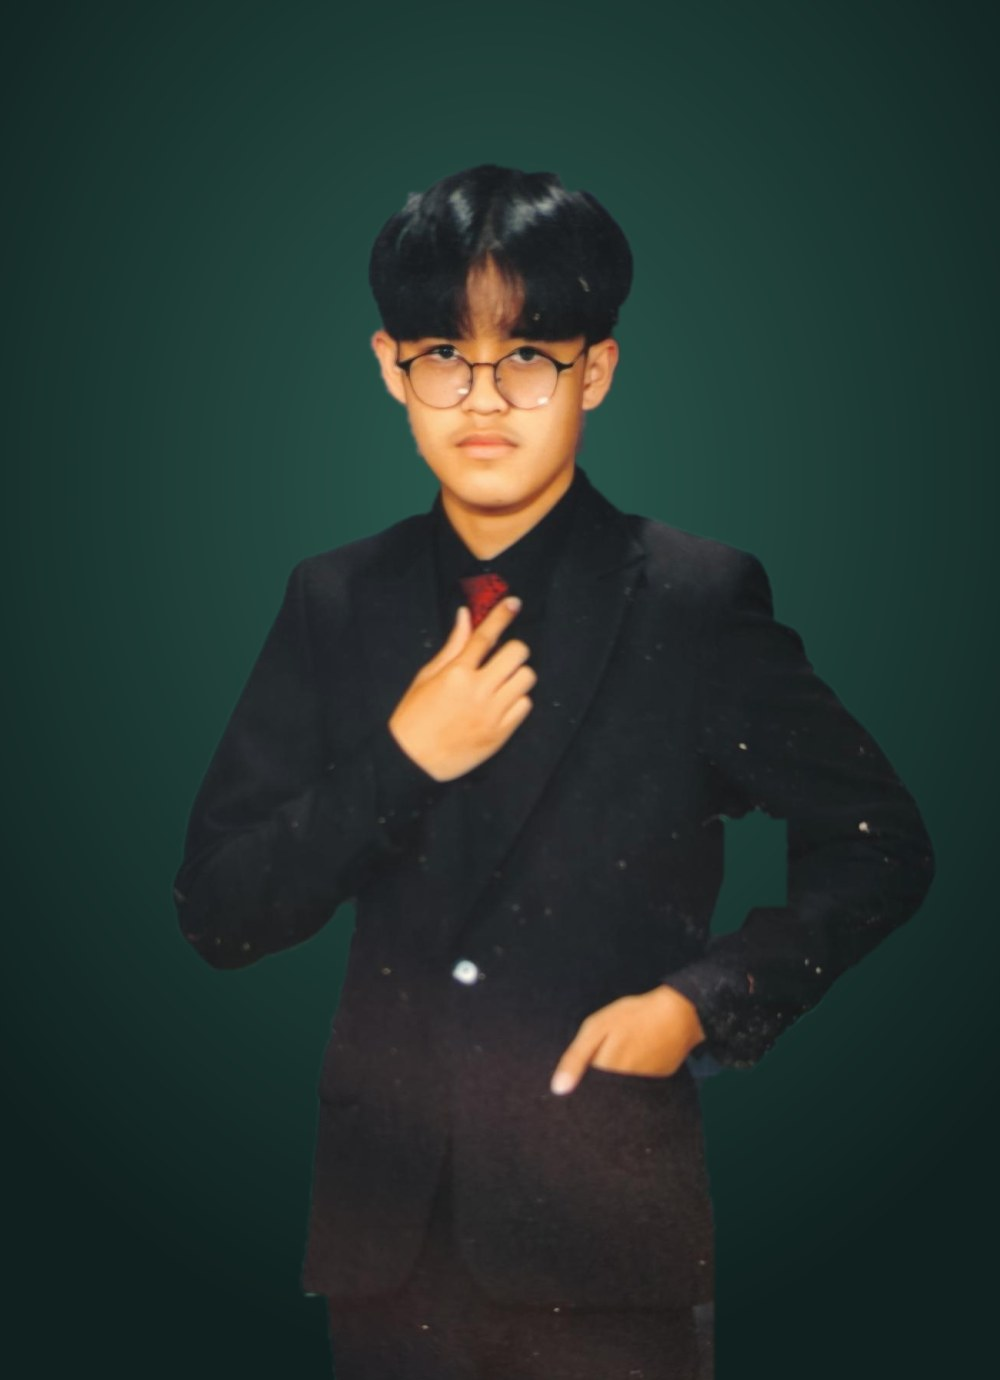
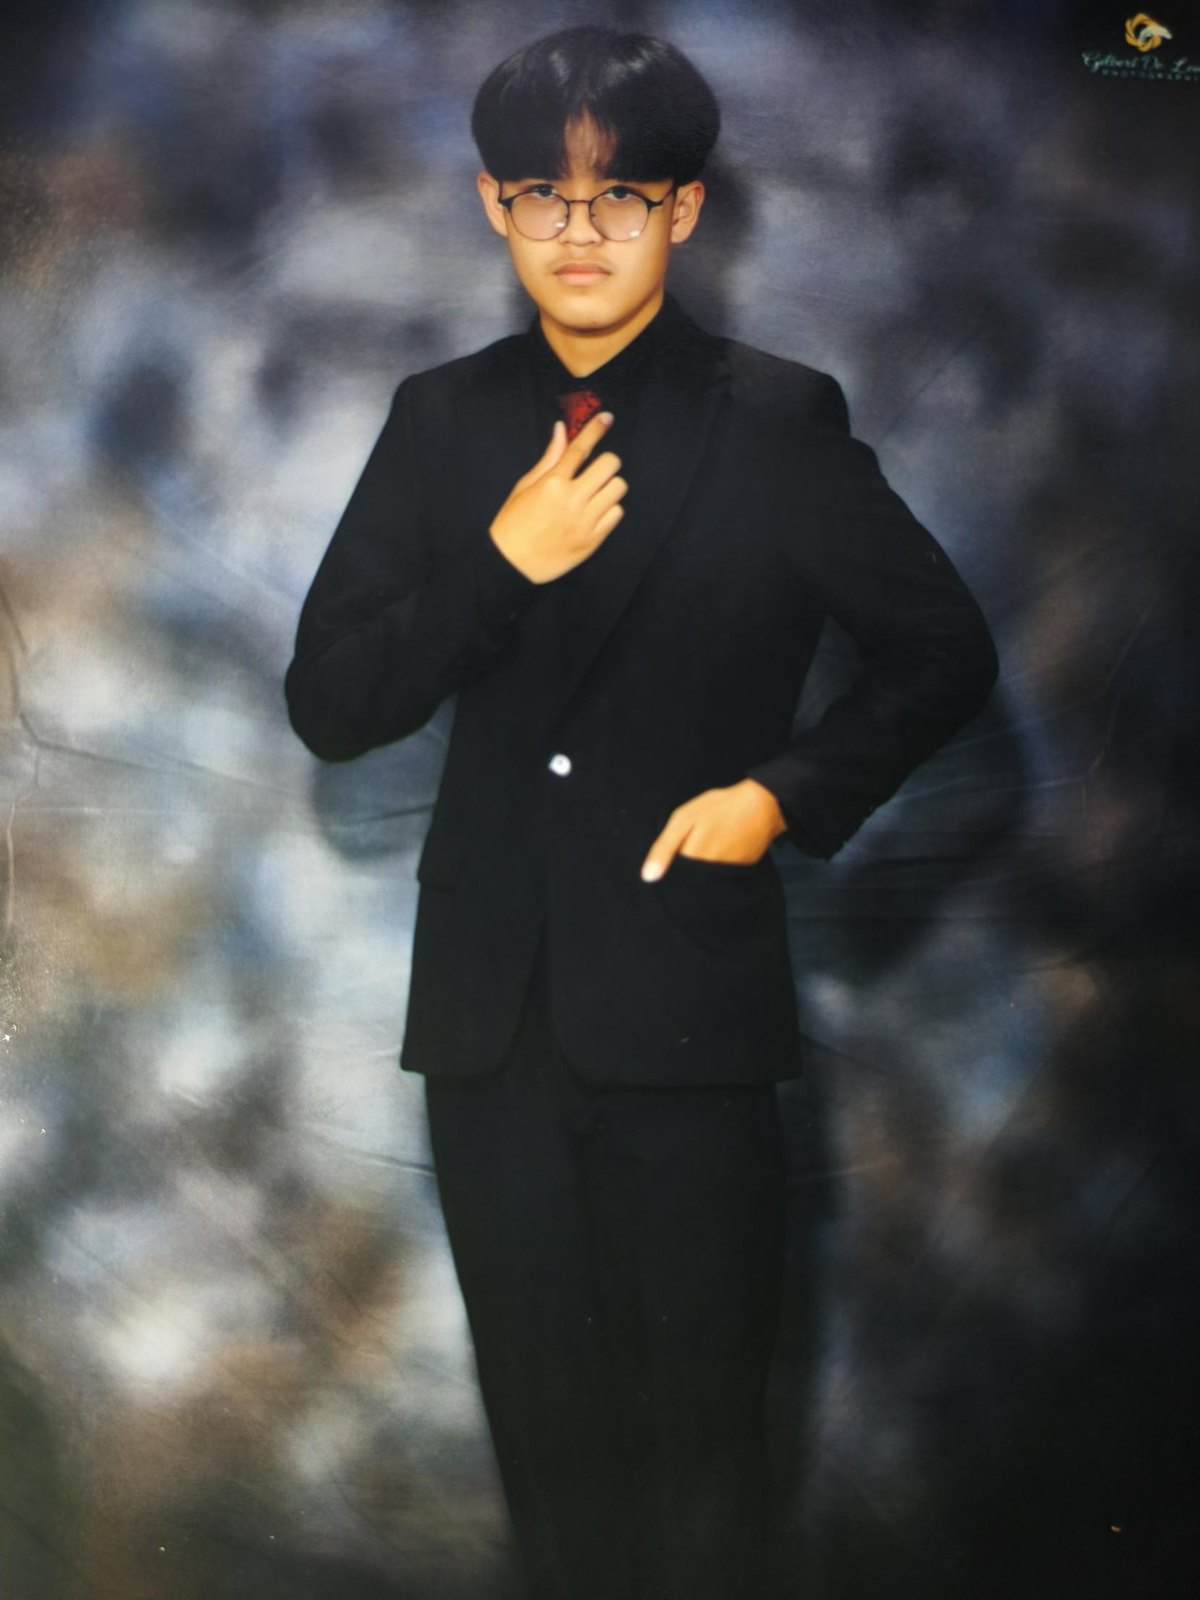
Add files via upload

diff --git a/index.html b/index.html
@@ -11,7 +11,7 @@
 <body>
 <nav aria-label="Main"><a class="brand" href="index.html">Joshua Dangpay</a><ul><li><a href="index.html" aria-current="page">Home</a></li><li><a href="personal.html">Personal<span class="x"> Information</span></a></li><li><a href="achievements.html">Achievements</a></li><li><a href="family-friends.html">Family<span class="x"> &amp; Friends</span></a></li></ul></nav>
 <main class="home">
-<div class="ph"><img src="assets/images/profile/profile-photo.webp" alt="Portrait of Joshua G. Dangpay"></div>
+<div class="ph"><img src="assets/images/profile/profile-photo.jpg" alt="Portrait of Joshua G. Dangpay"></div>
 <div class="tx"><h1>Joshua G.<br>Dangpay</h1><p>First-year BS Information Technology student at the University of the Cordilleras in Baguio City. I'm interested in technology, business systems and ERP.</p><a class="btn" href="personal.html" data-nav>Introduction</a></div>
 </main>
 </body>

diff --git a/css/style.css b/css/style.css
@@ -119,6 +119,7 @@ h2{font-size:1.1rem;letter-spacing:0}
 .pi .chip{padding:3px 12px;font-size:.9rem}
 .pi .a p{font-size:1.02rem;line-height:1.55}
 .sk li{padding:8px 12px}
-.home .ph{background:radial-gradient(ellipse at 50% 38%,#2c5a4f 0%,#17302c 55%,#10201e 100%)}
-.home img{object-fit:contain;object-position:50% 100%}
-@media(max-width:800px){.home img{object-fit:cover;object-position:50% 0}}
+.home{grid-template-columns:min(50%,calc((100vh - 54px)*.75)) 1fr}
+.home{grid-template-columns:min(50%,calc((100dvh - 54px)*.75)) 1fr}
+.home img{object-fit:cover;object-position:54% 50%}
+@media(max-width:800px){.home{grid-template-columns:1fr;grid-template-rows:auto auto;overflow:auto}.home .ph{width:min(100%,46.5vh);aspect-ratio:3/4;justify-self:center}}

diff --git a/README.md b/README.md
@@ -6,7 +6,7 @@ Plain HTML, CSS and JavaScript. No frameworks, no build step.
 Extract the zip fully, then double-click `index.html`. For best results use a local server: run `python3 -m http.server` in this folder and visit http://localhost:8000.
 
 ## Replace or add photos
-- The homepage photo is `assets/images/profile/profile-photo.webp`, a transparent cut-out that sits on the green gradient set by `.home .ph` in `css/style.css` (change the colors there).
+- The homepage photo is shown full height: top and bottom are never cropped, only the sides if the window is narrow. Replace `assets/images/profile/profile-photo.jpg` (a portrait photo, about 3:4, works best).
 - Photos live in `assets/images/` (`profile`, `achievements`, `work-immersion`, `family-friends`). To replace one, save the new file with the **same filename**. Keep images under about 1800 px on the long side.
 - **Family & Friends:** in `family-friends.html`, copy one `<figure>...</figure>` inside `<div class="gal">`, change `src`, `alt` and the optional caption, and set `--ar` to width divided by height (for example `.75` for a 3:4 portrait, `1.3333` for 4:3). All photos stay on one screen: they are arranged in up to three rows and shrink as you add more, so keep it to about 8 photos.
 - **Awards:** in `achievements.html`, copy an `<div class="item">...</div>` inside `.awards`. The grid is designed for five awards; with more, the thumbnails get smaller (the lightbox still shows each one full size).
